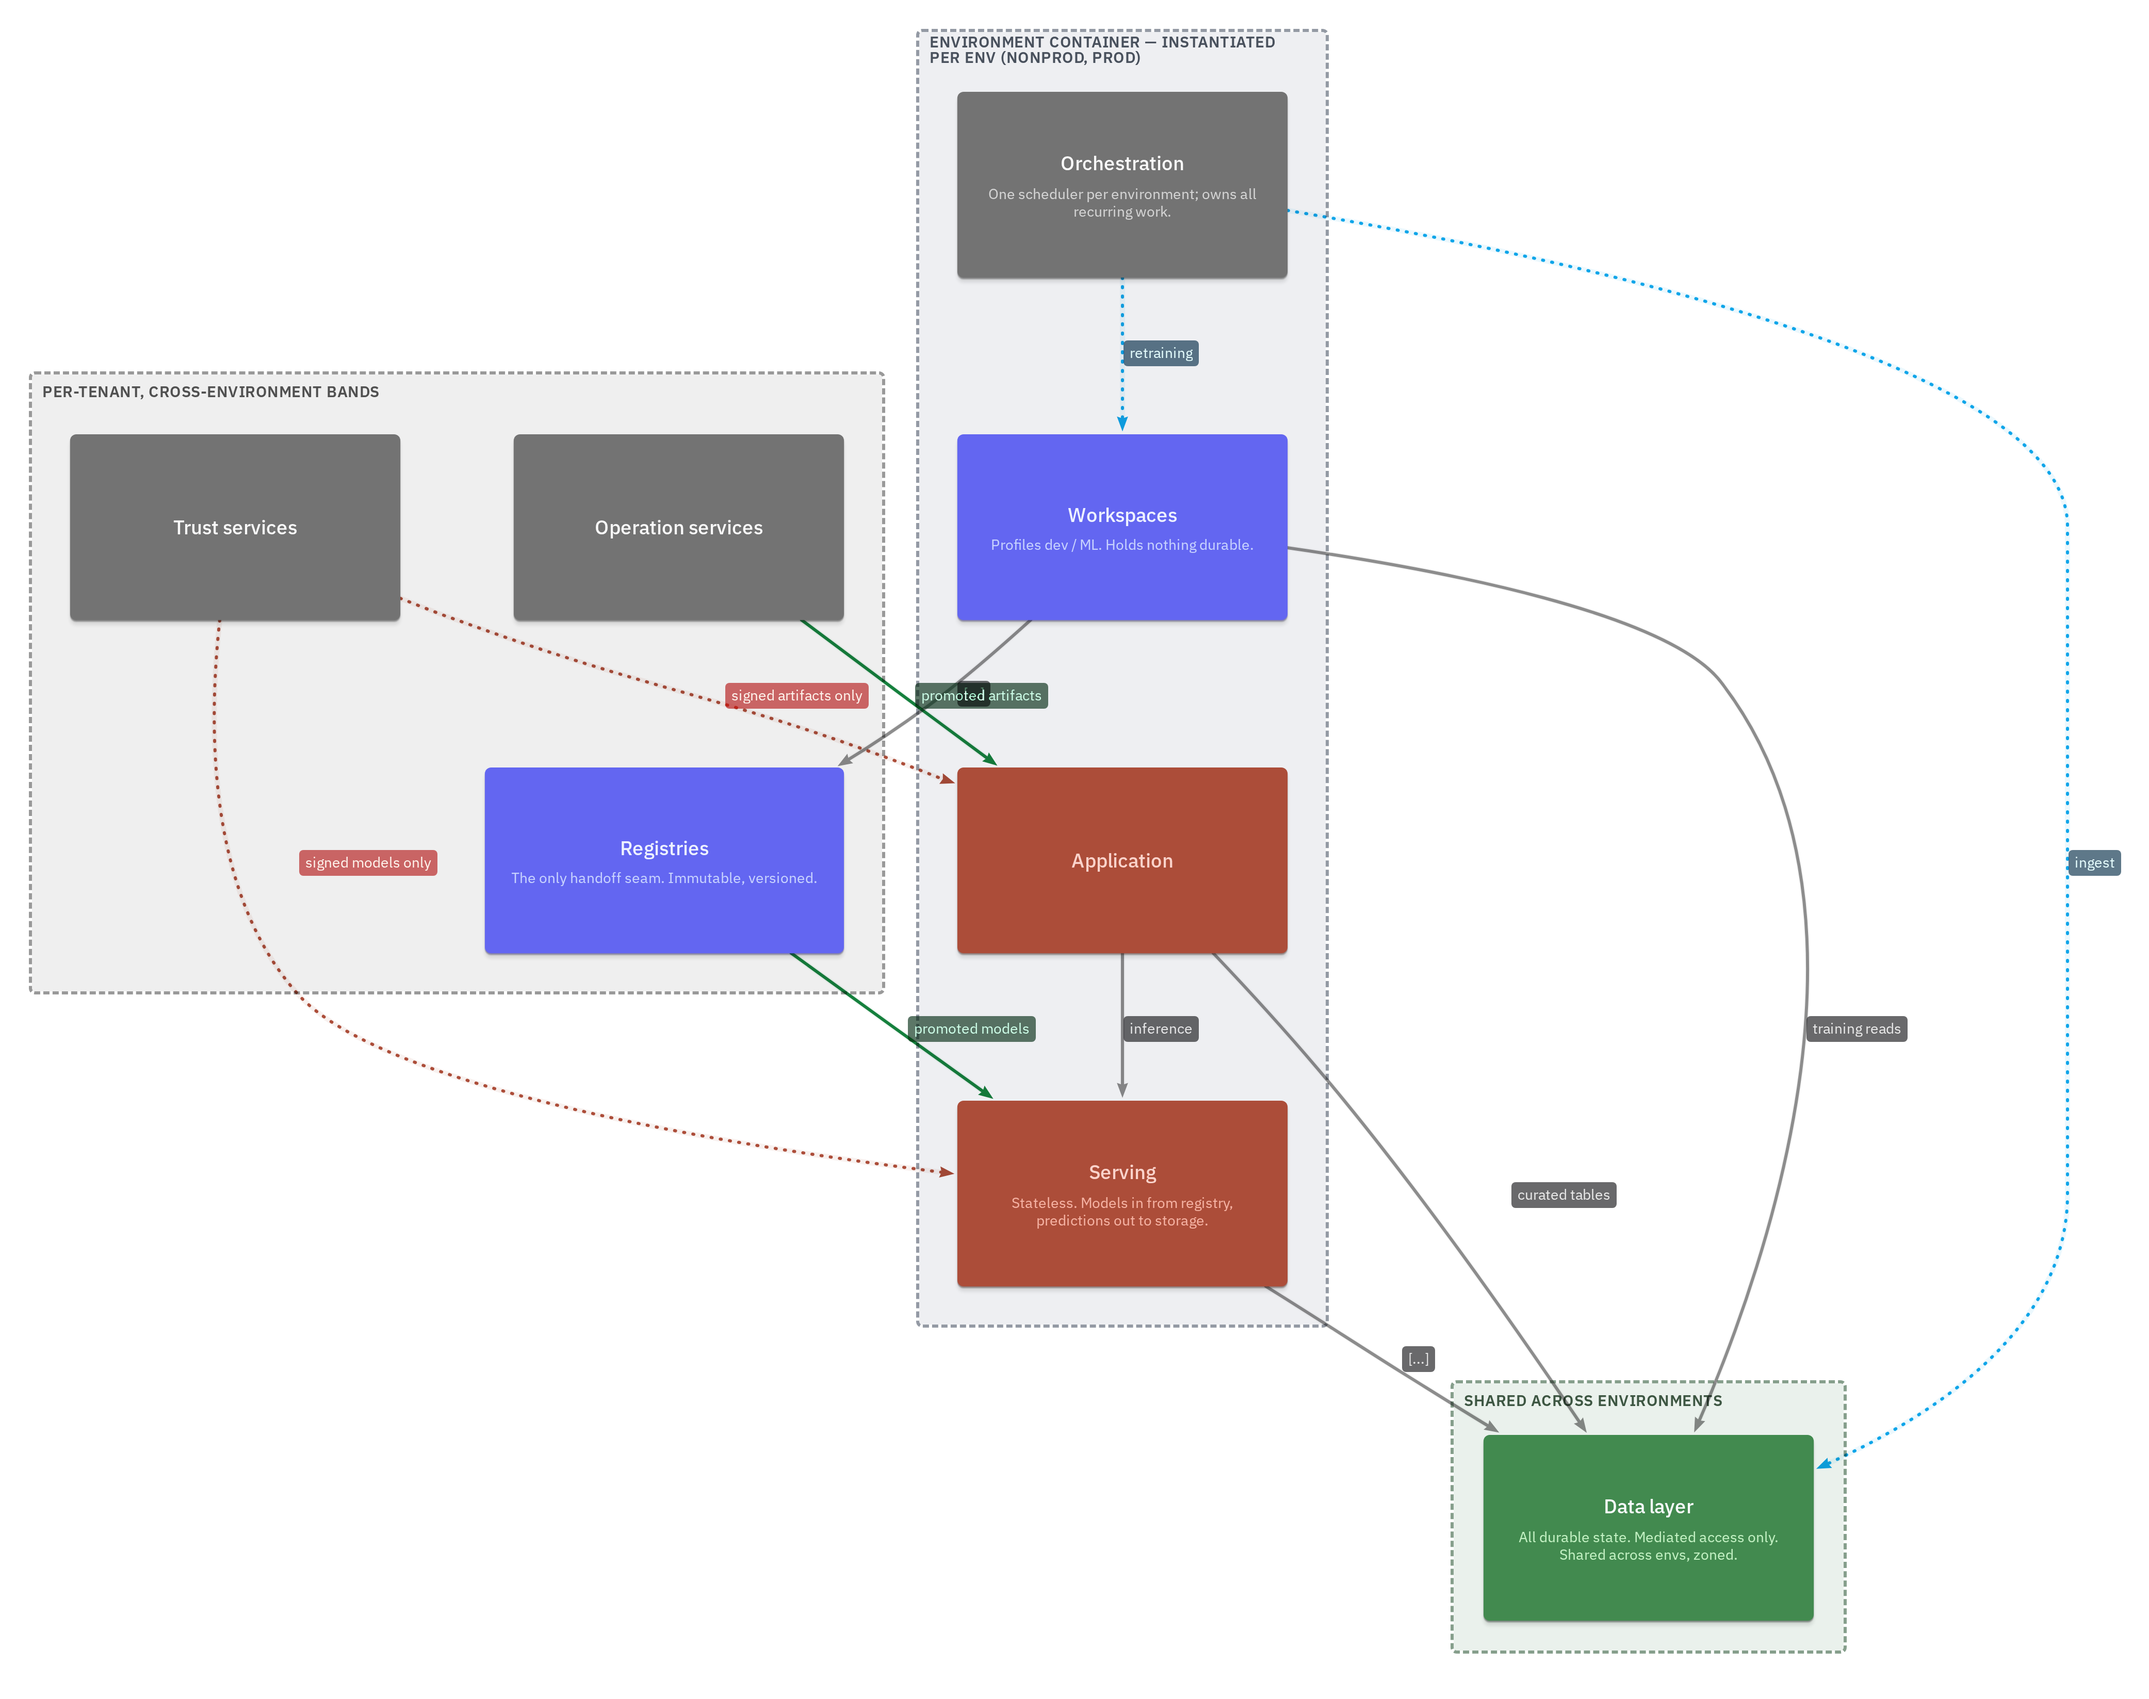
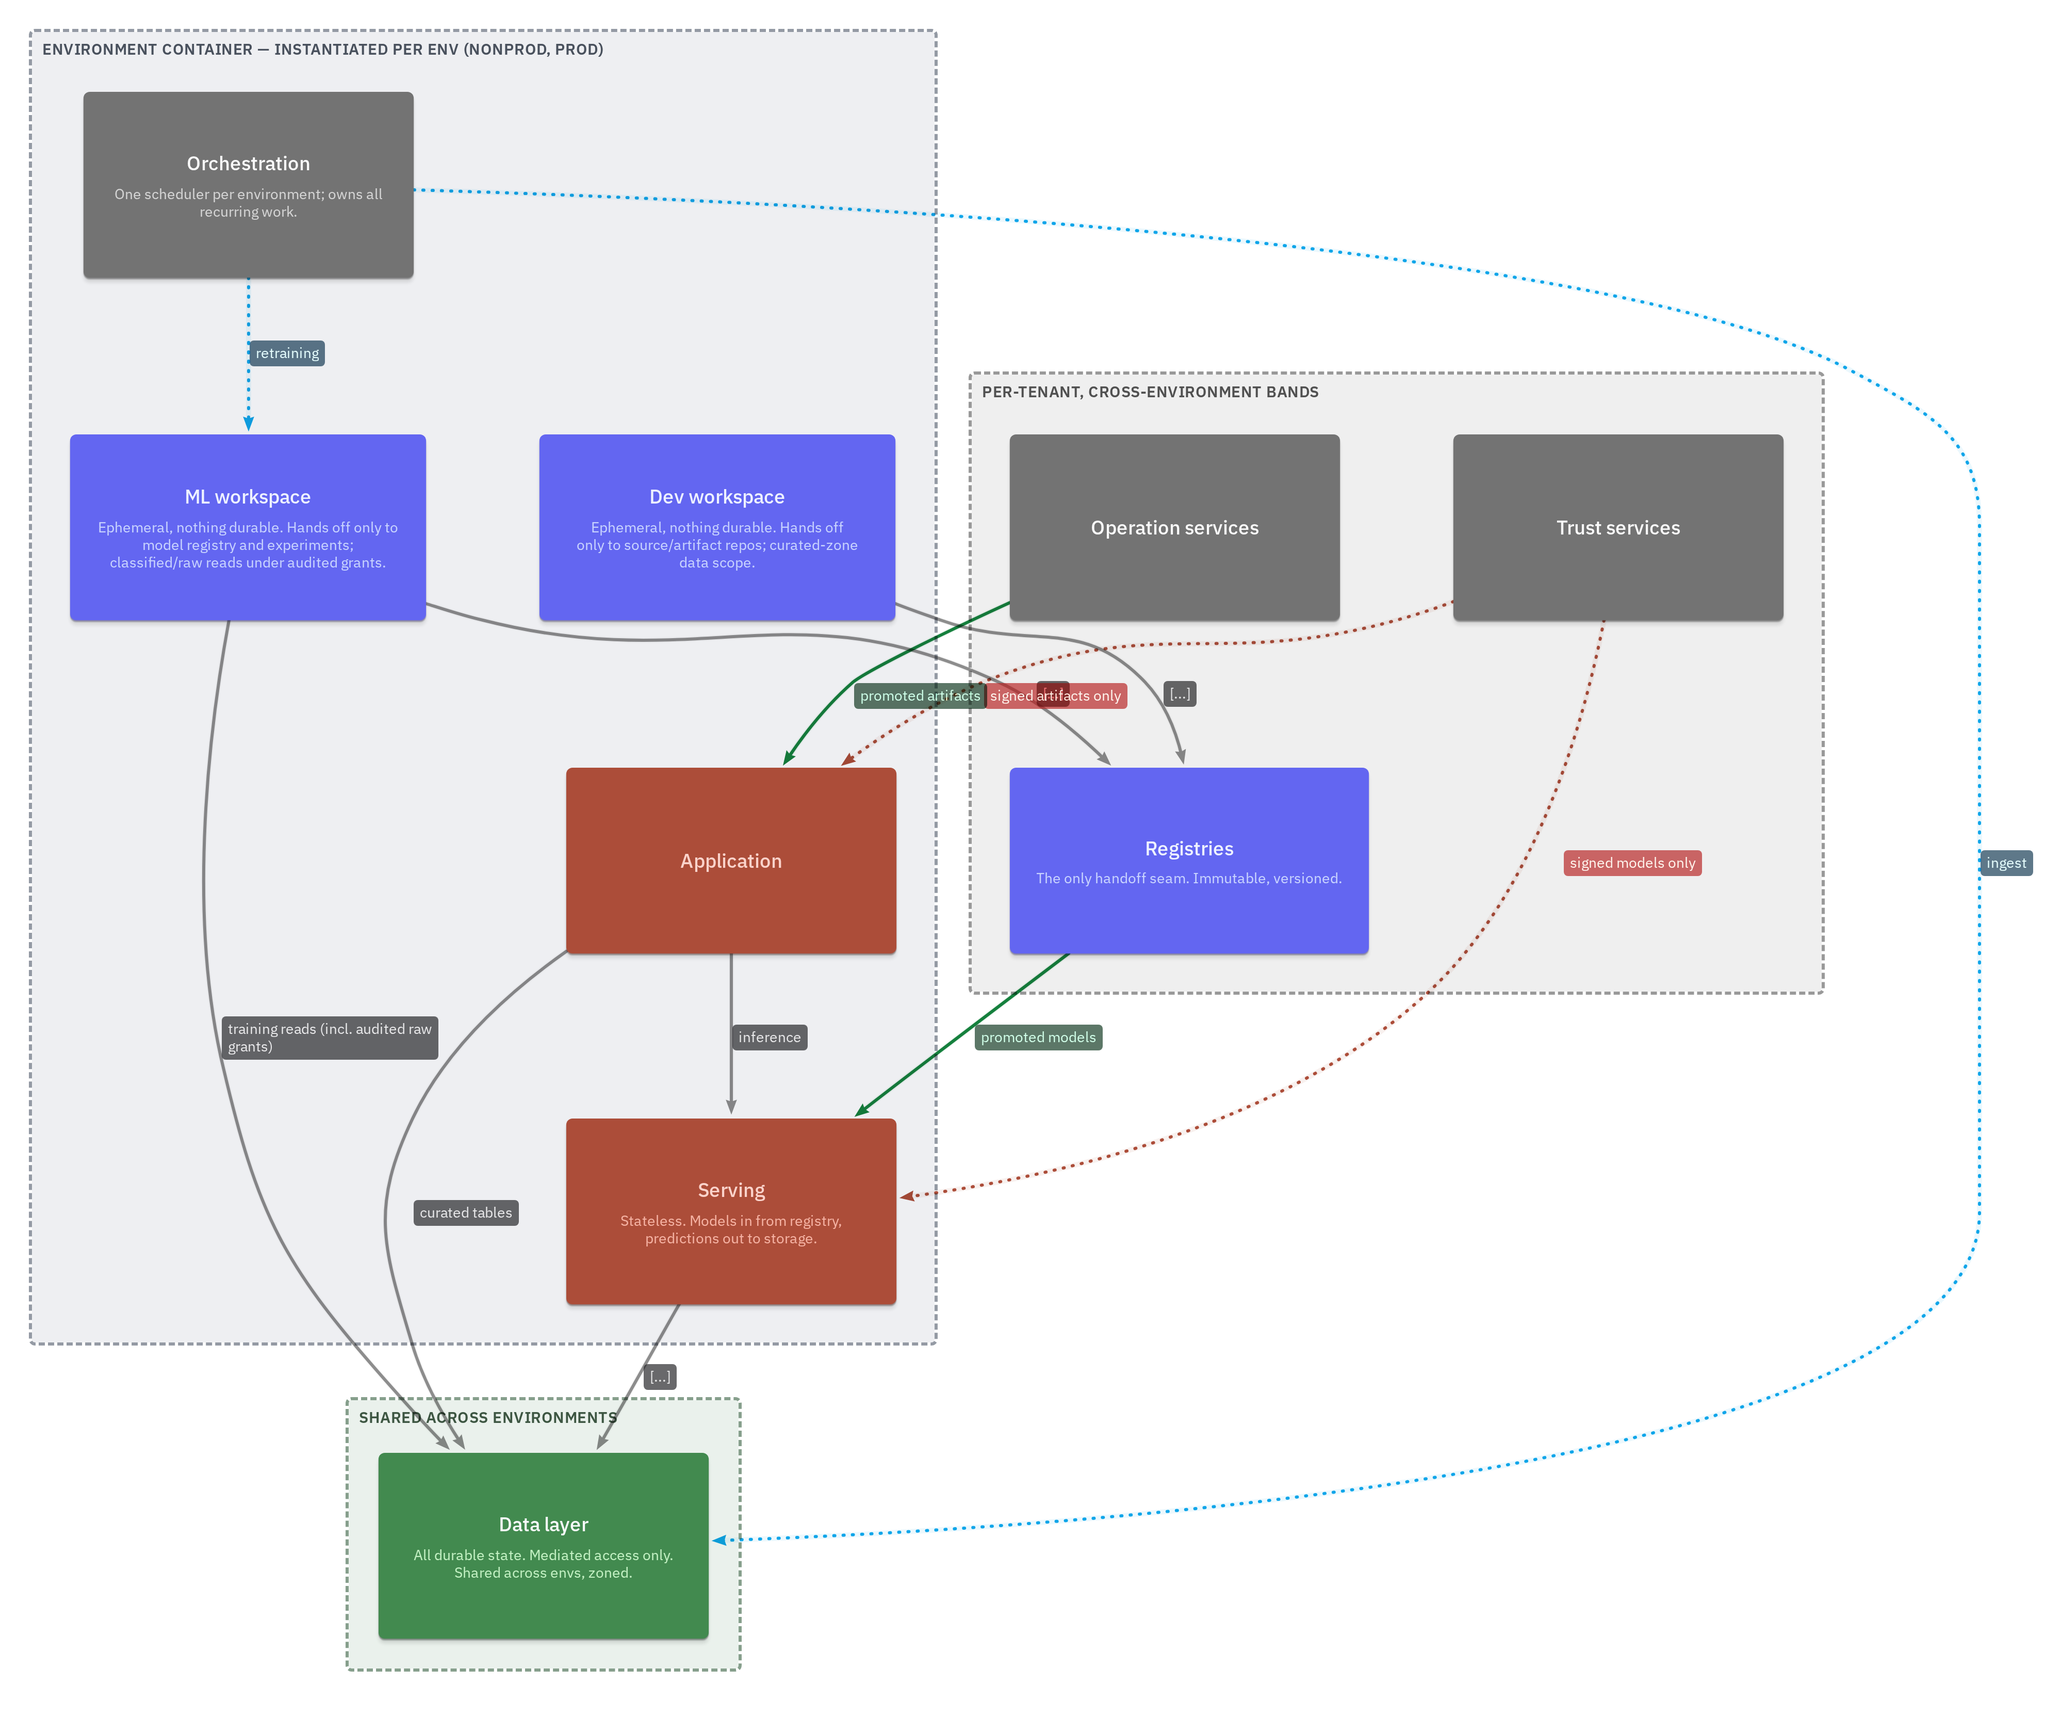
Cleaning dev workspaces approach

diff --git a/adr/0012-split-dev-ml-workspaces.md b/adr/0012-split-dev-ml-workspaces.md
@@ -1,0 +1,49 @@
+---
+id: ADR-0012
+status: proposed
+date: 2026-08-31
+affects: [KYP-T-DEVWS, KYP-T-MLWS]
+---
+# Dev and ML are separate workspace areas
+
+## Context
+A single workspace subsystem with dev/ML profiles was considered, on the
+premise that both share one anatomy (sessions, jobs, environment images,
+scratch) and differ only in policy: data scope, publish target, compute
+quota. The premise does not hold: the two user groups run different tooling
+and different end-to-end processes — dev is build/test-centric (IDE
+sessions, build pipelines), ML is experiment-loop-centric (notebook
+sessions, GPU pools, experiment tracking). By the taxonomy's area test
+(one area = one boundary rule) they carry different boundary rules, not one
+rule with two quotas.
+
+## Decision
+Two sibling areas in the tenant plane's environment container:
+
+- Dev workspace (KYP-T-DEVWS) — boundary rule: ephemeral, nothing durable;
+  hands off exclusively to source/artifact registries; curated-zone data
+  scope only.
+- ML workspace (KYP-T-MLWS) — boundary rule: ephemeral, nothing durable;
+  hands off exclusively to model registry and experiments; classified/raw
+  reads under audited grants.
+
+Registries remain the only producer-to-runtime handoff (ADR-0004).
+Tooling differences stay out of the model — they are bindings.
+
+## Consequences
+- The ML raw-read trust difference is a named boundary between areas, not
+  an intra-area policy nuance — cleaner to defend in security reviews and
+  maps directly to SOC 2 CC6.1 least-privilege argumentation.
+- Two anatomies to operate (sessions, jobs, images, scratch twice); a
+  future analyst audience needs an explicit home rather than a cheap
+  profile.
+- The genuinely common parts (image pinning, scratch lifecycle) can drift
+  between the two areas; keeping them aligned is an ops-band concern, not a
+  structural guarantee.
+
+## Rejected alternatives
+- One workspace subsystem with dev/ML profiles: fails the area test — the
+  publish targets and data scopes are two boundary contracts, and the
+  raw-read trust delta hides inside a single area's policy.
+- Different products per profile inside one area: does not address the
+  differing handoff targets and data scopes.

diff --git a/docs/arc42/09-architecture-decisions.md b/docs/arc42/09-architecture-decisions.md
@@ -4,19 +4,23 @@ Decisions are ADRs in [`adr/`](../../adr/) — that directory is the single
 authoring surface for decision facts. This section is an index, nothing more.
 Never re-open an accepted decision without a new ADR.
 
+**Current state: every ADR is `proposed`.** Nothing is accepted yet — the
+baseline is under review. (ADR-0008 was withdrawn pre-baseline; the number
+is retired.)
+
 | ADR | Decision | Affects |
 |---|---|---|
 | [ADR-0001](../../adr/0001-three-planes-pull-only.md) | Three planes; pull-only trust downward | KYP-C, KYP-T, KYP-E |
 | [ADR-0002](../../adr/0002-tenant-per-customer.md) | Silo tenancy: one tenant plane per customer | KYP-T |
 | [ADR-0003](../../adr/0003-generic-sync-layer.md) | Generic sync layer, not a named broker | KYP-T-SYNC-01, KYP-E |
-| [ADR-0004](../../adr/0004-registries-only-handoff.md) | Registries are the only producer→runtime handoff | KYP-T-REG, KYP-T-WS |
+| [ADR-0004](../../adr/0004-registries-only-handoff.md) | Registries are the only producer→runtime handoff | KYP-T-REG, KYP-T-DEVWS, KYP-T-MLWS |
 | [ADR-0005](../../adr/0005-two-environments.md) | Two environments: nonprod and prod | KYP-T |
 | [ADR-0006](../../adr/0006-shared-zoned-data-layer.md) | One shared, zoned data layer across environments | KYP-T-DATA |
 | [ADR-0007](../../adr/0007-object-store-contract-bindings.md) | Object store contract in model; products as bindings | KYP-T-DATA-01 |
-| [ADR-0008](../../adr/0008-unified-workspaces.md) | One workspace subsystem, dev/ML profiles | KYP-T-WS |
 | [ADR-0009](../../adr/0009-architecture-toolchain.md) | Taxonomy + arc42 + LikeC4 + CI gate; Notion links only | — |
 | [ADR-0010](../../adr/0010-alerting-authority.md) | Tenant alerting authoritative; edge is a replica | KYP-T-APP-03, KYP-E-RT-04 |
 | [ADR-0011](../../adr/0011-onprem-object-store-seaweedfs.md) | On-prem object store binding: SeaweedFS | KYP-T-DATA-01, KYP-T-DATA-25 |
+| [ADR-0012](../../adr/0012-split-dev-ml-workspaces.md) | Dev and ML are separate workspace areas | KYP-T-DEVWS, KYP-T-MLWS |
 
 Rejected options that must not be re-proposed are listed in
 [CLAUDE.md](../../CLAUDE.md) ("Rejected options") with the ADR that closed

diff --git a/docs/design-brief.md b/docs/design-brief.md
@@ -25,10 +25,12 @@ connectivity classes; enabled modules; version pins.
 ### Environment container — instantiated as nonprod and prod (ADR-0005)
 Holds: Workspaces, Serving, Application, Orchestration.
 
-Workspaces (one subsystem, profiles dev / ML; analyst profile later) — ADR-0008
-  Sessions · Jobs · Environments (pinned images) · Scratch runtime
-  Profile differences are policy only: data scope, publish target, compute quota.
-  Spaces hold nothing durable (ADR-0004).
+Dev workspace — Sessions · Build/test jobs · Environment images · Scratch runtime
+  Hands off only to source/artifact repos; curated-zone data scope. — ADR-0012
+ML workspace — Notebook sessions · Training jobs · Environment images · Scratch runtime
+  Hands off only to model registry + experiments; classified/raw reads under
+  audited grants. — ADR-0012
+  Both workspaces hold nothing durable (ADR-0004).
 Serving — Model runtime · Retrieval · Inference gateway · Drift monitor (stateless)
 Application — App runtime · API gateway · Alerting (authority) · Public ingress
 Orchestration — Ingest · Transform · Scoring · Retraining trigger · Idle scale
@@ -82,7 +84,7 @@ rehearsal = nonprod run against curated read-only.
 - Semantic layer above query engine (only if >1 consumer defines same KPI)
 - Availability targets per stateful component; DR targets (RPO/RTO) per tenant class
 - Tenant lifecycle (provision/suspend/offboard with data export) in control plane
-- Analyst workspace profile
+- Analyst workspace (own area vs a home inside dev workspace)
 - Federated learning across tenants (future option; keep compatible, do not build)
 
 ## Standards to map against (see docs/analysis-plan.md)

diff --git a/docs/arc42/01-introduction-and-goals.md b/docs/arc42/01-introduction-and-goals.md
@@ -39,7 +39,7 @@ this section states only the goals and their drivers.
 |---|---|---|
 | Customer (data owner) | Sovereignty, isolation, export on offboarding | tenant plane; lifecycle gap tracked in [design brief — open decisions](../design-brief.md#open-decisions) |
 | Plant / OT operations | Local inference and alerting despite dead WAN | edge plane, [ADR-0010](../../adr/0010-alerting-authority.md) |
-| Data scientists / developers | One workspace, dev and ML profiles | [ADR-0008](../../adr/0008-unified-workspaces.md) |
+| Data scientists / developers | Separate dev and ML workspaces — different tooling, processes and data scope | [ADR-0012](../../adr/0012-split-dev-ml-workspaces.md) |
 | Kyper operations | Operate a fleet of tenant silos from one control plane | control plane ([ADR-0001](../../adr/0001-three-planes-pull-only.md)) |
 | Security reviewers | Trust boundaries as named components; zone model | placement rules in [CLAUDE.md](../../CLAUDE.md); [analysis plan](../analysis-plan.md) phase 3 |
 | Business / non-git audience | Discoverable narrative without Git access | Notion portal, links only ([ADR-0009](../../adr/0009-architecture-toolchain.md)) |

diff --git a/docs/arc42/11-risks-and-technical-debt.md b/docs/arc42/11-risks-and-technical-debt.md
@@ -6,8 +6,8 @@
   formal stage env): [design brief — accepted costs](../design-brief.md#accepted-costs).
 - Tenant lifecycle is a declared gap (KYP-C-FLEET-04, `status 'gap'` in the
   model).
-- ML profile's raw-read trust delta to defend in security reviews
-  ([ADR-0008](../../adr/0008-unified-workspaces.md)).
+- ML workspace's raw-read trust delta to defend in security reviews — now a
+  named area boundary ([ADR-0012](../../adr/0012-split-dev-ml-workspaces.md)).
 - Findings register (gap / decision-needed / accepted-deviation / validated)
   lives in Notion per [ADR-0009](../../adr/0009-architecture-toolchain.md) —
   this section links, never restates.

diff --git a/CLAUDE.md b/CLAUDE.md
@@ -48,7 +48,7 @@ either.
 
 ## Rejected options — do not propose these again
 - three environments (dev / stage / prod)          -> ADR-0005
-- dev space and ML space as sibling subsystems     -> ADR-0008 (profiles of one workspace)
+- one workspace subsystem with dev/ML profiles     -> ADR-0012 (dev and ML are separate areas)
 - source repo / artifact repo / model registry inside a space -> ADR-0004
 - product names at component level                 -> ADR-0007
 - "message broker" as the named edge boundary      -> ADR-0003 (generic sync layer)

diff --git a/docs/arc42/03-context-and-scope.md b/docs/arc42/03-context-and-scope.md
@@ -25,7 +25,7 @@ Trust boundaries view:
 ## Scope
 
 **In scope:** control plane (fleet, golden artifacts, release control), tenant
-plane (workspaces, serving, application, orchestration, data layer,
+plane (dev and ML workspaces, serving, application, orchestration, data layer,
 registries, trust and operation bands), edge plane (runtime, site services,
 optional application and orchestration).
 

diff --git a/adr/0004-registries-only-handoff.md b/adr/0004-registries-only-handoff.md
@@ -1,8 +1,8 @@
 ---
 id: ADR-0004
-status: accepted
+status: proposed
 date: 2026-08-31
-affects: [KYP-T-REG, KYP-T-WS]
+affects: [KYP-T-REG, KYP-T-DEVWS, KYP-T-MLWS]
 ---
 # Registries are the only handoff between producers and runtimes; spaces hold nothing durable
 ## Context

diff --git a/adr/0006-shared-zoned-data-layer.md b/adr/0006-shared-zoned-data-layer.md
@@ -1,6 +1,6 @@
 ---
 id: ADR-0006
-status: accepted
+status: proposed
 date: 2026-08-31
 affects: [KYP-T-DATA, KYP-T-DATA-22, KYP-T-DATA-25]
 ---

diff --git a/adr/0011-onprem-object-store-seaweedfs.md b/adr/0011-onprem-object-store-seaweedfs.md
@@ -1,6 +1,6 @@
 ---
 id: ADR-0011
-status: accepted
+status: proposed
 date: 2026-08-31
 affects: [KYP-T-DATA-01, KYP-T-DATA-25]
 ---

diff --git a/adr/0010-alerting-authority.md b/adr/0010-alerting-authority.md
@@ -1,6 +1,6 @@
 ---
 id: ADR-0010
-status: accepted
+status: proposed
 date: 2026-08-31
 affects: [KYP-T-APP-03, KYP-E-RT-04]
 ---

diff --git a/adr/0003-generic-sync-layer.md b/adr/0003-generic-sync-layer.md
@@ -1,6 +1,6 @@
 ---
 id: ADR-0003
-status: accepted
+status: proposed
 date: 2026-08-31
 affects: [KYP-T-SYNC-01, KYP-E]
 ---
